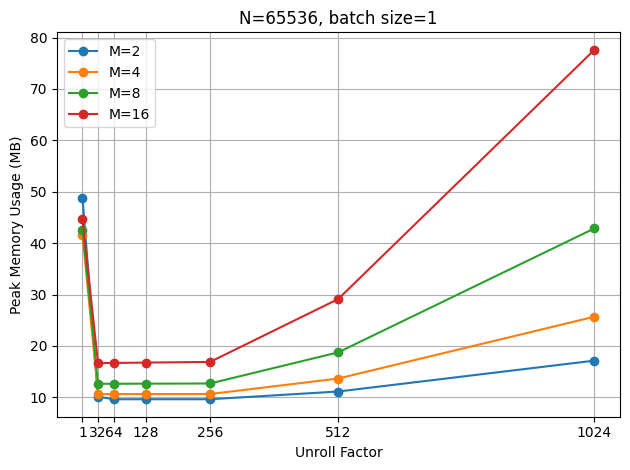
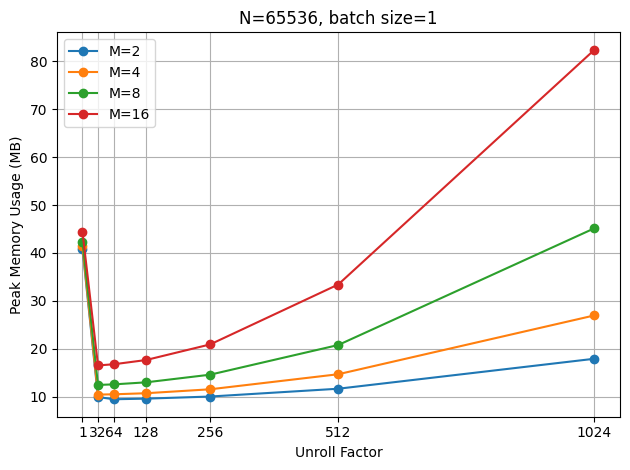
fix: clarify memory usage explanation and update images for unrolled SSM

diff --git a/_posts/2025-06-27-unroll-ssm.md b/_posts/2025-06-27-unroll-ssm.md
@@ -451,12 +451,12 @@ However, the peak of the best unroll factor also leans towards the left a bit wh
 
 ### Memory usage
 
-To see how the memory usage changes with the unroll factor, I ran the unrolled SSM on a 5060 ti so I can use `torch.cuda.max_memory_allocated()` to measure the memory usage.
-When batch size is 1 and \\(T > 1\\), the memory usage increases as the unroll factor increases, which is expected.
+To see how the memory usage changes in a differentiable training context, I ran the unrolled SSM on a 5060 ti so I can use `torch.cuda.max_memory_allocated()` to measure the memory usage.
+When batch size is 1, as expected, the memory usage grows quadratically with the unroll factor, due to the creation of the \\(\mathbf{V}\\) matrix.
 
 ![](/images/unroll-ssm/mem_batch_1.png)
 
-However, when using a larger batch size (32 in this case), the memory usage saturates and there's barely any difference between different unroll factors.
+However, when using a larger batch size (32 in this case), this cost becomes less significant compared to more memory used for the input signal.
 
 ![](/images/unroll-ssm/mem_batch_32.png)
 
@@ -465,7 +465,7 @@ However, when using a larger batch size (32 in this case), the memory usage satu
 
 So far we have seen that the unrolled SSM can achieve a significant speedup for IIR filtering in PyTorch.
 However, how to automatically determine the best unrolling factor is still not clear.
-From the benchmarks I did on an i7 CPU, it seems that the optimal \\(T^*\\) is \\(\sqrt{N}\alpha\\) and \\(0 < \alpha \leq 1\\) is given by a polynomial function of the filter order and batch size.
+From the benchmarks I did on an i7 CPU, it seems that the optimal \\(T^*\\) is \\(\sqrt{N}\alpha\\) and \\(0 < \alpha \leq 1\\) is given by a function of the filter order and batch size.
 However, this may not hold for other hardware.
 
 One thing I didn't mention is about numerical accuracy.
@@ -480,9 +480,13 @@ Time-varying filters will benefit less from the unrolling trick since \\(\mathbf
 ## Conclusion & Thoughts
 
 In this post I show that the unrolling trick can significantly speed up differentiable IIR filtering in PyTorch.
-The extra memory cost is less for larger batch sizes, which might be due to the design of the backend that computes the matrix multiplication.
+The extra memory cost is less of a problem for large batch sizes.
 Although the filter I tested is a simple all-pole filter, it's trivial to extend the idea to general IIR filters.
 
-This idea might help addresing one of the issues for future TorchAudio, after the Meta developers [announced](https://github.com/pytorch/audio/issues/3902) their future plan for it.
+This method might help addresing one of the issues for future TorchAudio, after the Meta developers [announced](https://github.com/pytorch/audio/issues/3902) their future plan for it.
 In the next major release, all the specialised kernels written in C++, including the `lfilter` I contirbuted years ago, will be removed from TorchAudio.
-The filter I presented here is purely written in Python and as long as we have a clever way to determine the best unrolling factor depends on the filter parameters, it should be a easy drop-in replacement for the current `lfilter` implementation.
+The filter I presented here is purely written in Python and it could be a easy drop-in replacement for the current compiled `lfilter` implementation.
+
+## Notes
+
+The complete code is available in the jupyter notebook version of this post on [Gist]().
